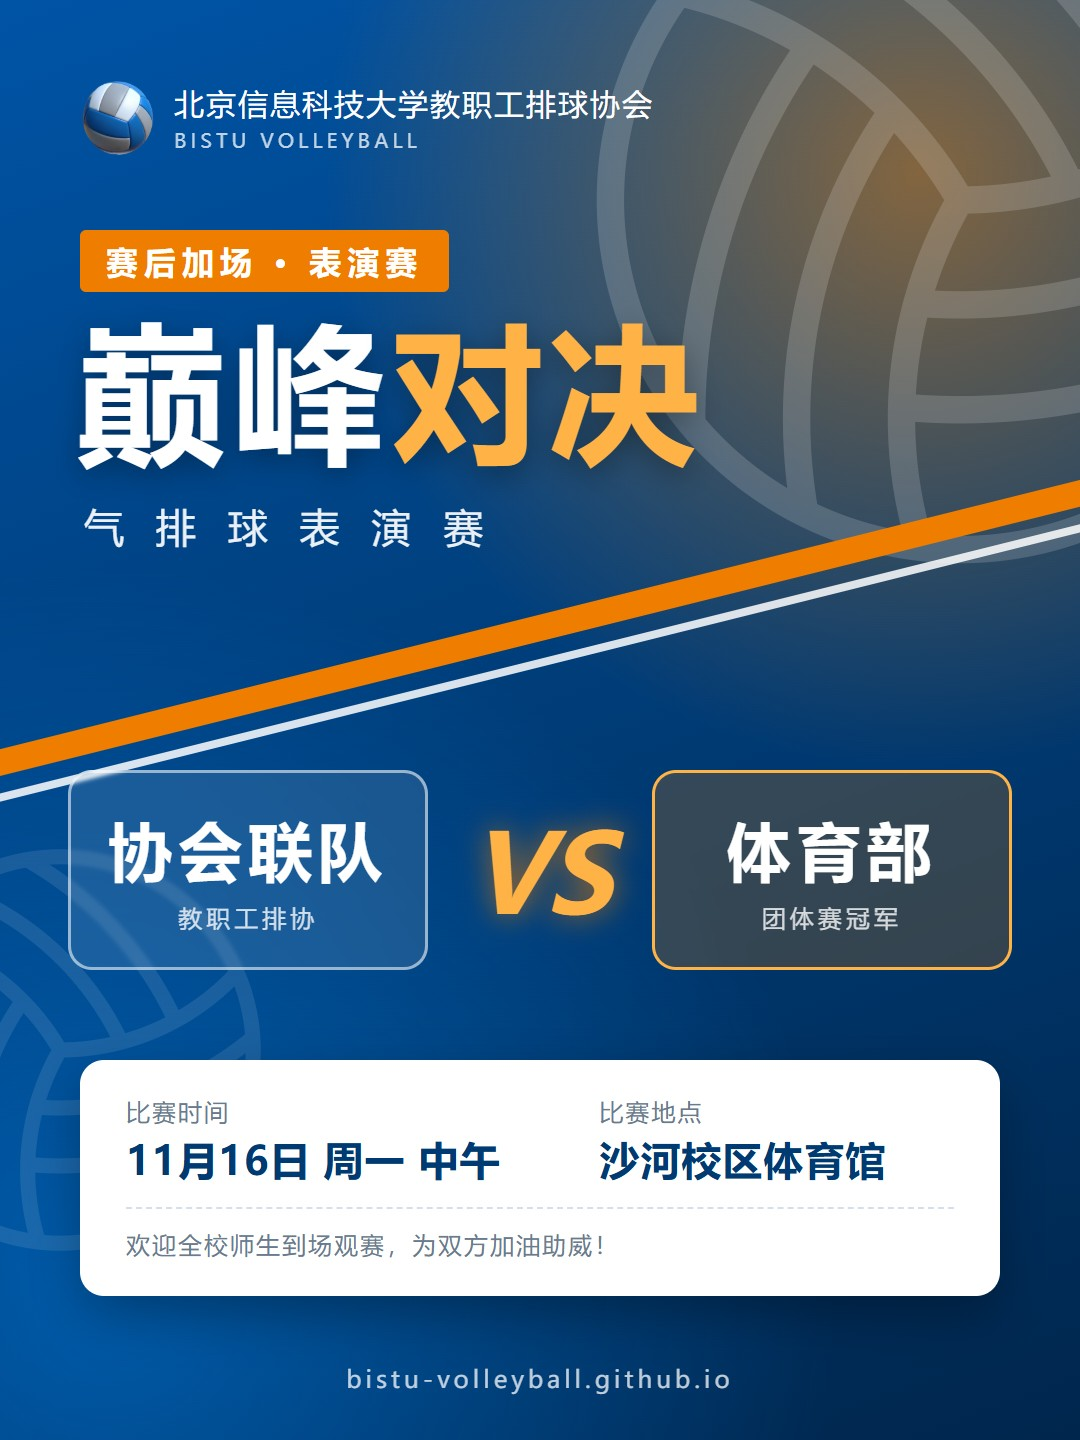
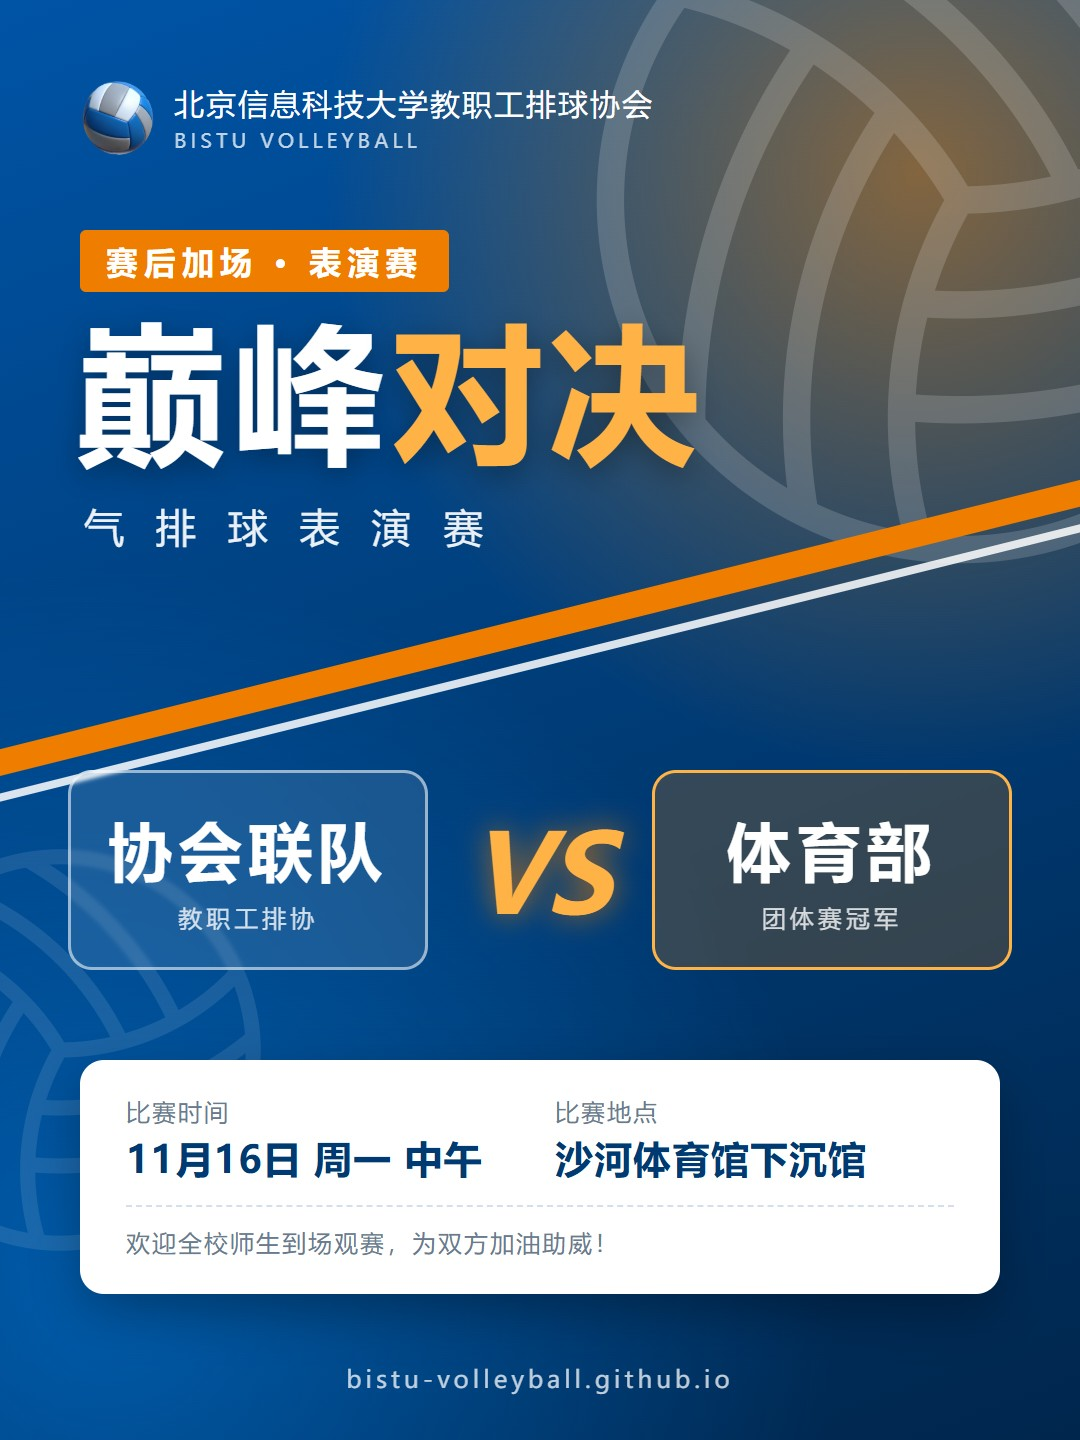
近期活动：表演赛地点改为沙河体育馆下沉馆；团体赛只保留领奖台

Changed region(s): [[0.1222, 0.75, 0.825, 0.875]]

diff --git a/index.html b/index.html
@@ -49,6 +49,8 @@ home: true
   {% if nt and nt.show %}
   {% comment %}notice.games 填了赛程比分页地址（如 /games/2026/）时：多出「赛程」「积分榜」按钮，下面显示今日比赛（assets/games.js）{% endcomment %}
   {% if nt.games %}{% assign gurl = nt.games | relative_url %}
+  {% comment %}notice.podium_only=true：只显示领奖台（隐藏标题/图片/按钮卡片）{% endcomment %}
+  {% unless nt.podium_only %}
   <div class="h-event">
     {% if nt.image %}<a href="{{ gurl }}"><img {% include thumb-src.html src=nt.image %} alt=""></a>{% endif %}
     <div class="h-event-txt">
@@ -61,6 +63,7 @@ home: true
       </div>
     </div>
   </div>
+  {% endunless %}
   <div class="ghome" id="g-home" data-url="{{ gurl }}"></div>
   <script>window.GAMES = {{ site.data.games2026 | jsonify }};</script>
   <script src="{{ '/assets/games.js' | relative_url }}?v={{ site.time | date: '%s' }}"></script>

diff --git a/publish/app.js b/publish/app.js
@@ -1078,7 +1078,7 @@ async function renderHome() {
       slogan: val(v, '#hSlogan'),
       heroes: st.heroes,
       stats: [...v.querySelectorAll('.hs-stat')].map(r => ({ icon: val(r, '.sIcon'), num: val(r, '.sNum'), label: val(r, '.sLabel') })).filter(s => s.num || s.label),
-      notice: { show: $('#nShow').checked, title: val(v, '#nTitle'), desc: val(v, '#nDesc'), url: val(v, '#nUrl'), image: st.noticeImg, button: val(v, '#nBtn'), games: val(v, '#nGames') || undefined },
+      notice: { ...nt, show: $('#nShow').checked, title: val(v, '#nTitle'), desc: val(v, '#nDesc'), url: val(v, '#nUrl'), image: st.noticeImg, button: val(v, '#nBtn'), games: val(v, '#nGames') || undefined },
       wall: st.wall,
     };
     if (data.notice.show && !data.notice.title) throw new Error('近期活动要在首页显示，请填写标题');
